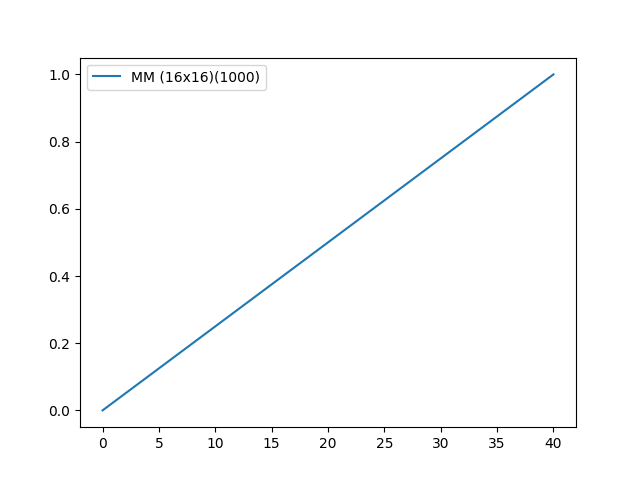
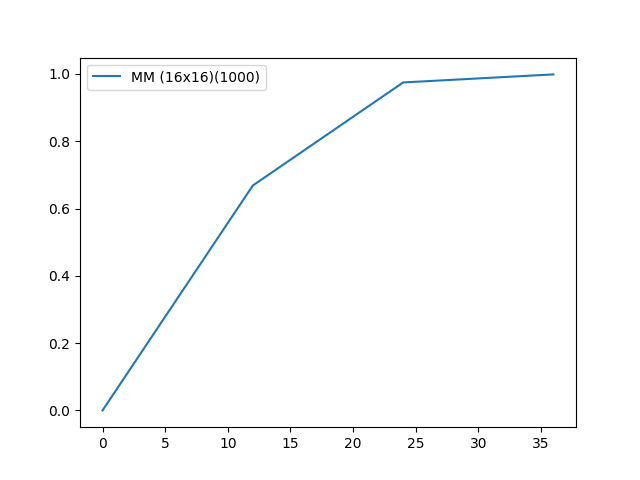
plot resource allocations

diff --git a/djmaps/maps/templates/static/index.js b/djmaps/maps/templates/static/index.js
@@ -144,7 +144,6 @@ function findDBScanCluster(DBSCANdistance, features) {
 	}
 	DBScanClusterTimeSeriesArray = [];
 	keys = Object.keys(DBScanClusterTimeSeries).sort();
-	console.log(keys);
 	last = keys.length - 1;
 	while (keys[last] == "NaN") {
 		last--;
@@ -223,7 +222,6 @@ function appendCrimeTypes(crimeType) {
 function mouseOnPointsEvent(map, popup) {
 	map.on('mouseenter', 'crimes', function (e) {
 		// Change the cursor style as a UI indicator.
-		console.log(e);
 		let description = `<b>Type: ${e.features[0].properties[0]} </b><br/>
 							Date: ${e.features[0].properties[3]} <br/> 
 							${e.features.length} incident(s) happened here.`
@@ -396,7 +394,6 @@ function changeFunctionsHookUp(map, dateCommitted, timeCommitted, crimeType) {
 
 					for (let i = 0; i < dateCommitted.length; i++) {
 						let curDate = new Date(dateCommitted[i]);
-						console.log(curDate);
 					}
 				}
 			}
@@ -482,7 +479,6 @@ function changeFunctionsHookUp(map, dateCommitted, timeCommitted, crimeType) {
 					$("#crimeType input[name='crimeType-NONE']:checkbox").prop('checked', false);
 				}
 				else if ($(this).prop("name").slice(10) == "NONE") {
-					//console.log(crimeType[crimeType.length - 1]);
 					crimeType = ["none"];
 					$('#crimeType input:checkbox').prop('checked', false);
 					$("#dates input[name='day-ALL']:checkbox").prop('checked', true);
@@ -491,21 +487,12 @@ function changeFunctionsHookUp(map, dateCommitted, timeCommitted, crimeType) {
 				}
 				else {
 					crimeType.push($(this).prop("name").slice(10));
-					//console.log(crimeType[crimeType.length - 1]);
 					$("#crimeType input[name='crimeType-NONE']:checkbox").prop('checked', false);
 				}
 			}
 			// if a day was checked add to dates array
 			// if a type was checked add to types array
 		} else {
-			/*if($(this).prop("name").slice(0,3) == "day") {
-				//console.log($(this).prop("name"));
-				for(let i = 0; i < dateCommitted.length; i++) {
-					if($(this).prop("name").slice(4) == dateCommitted[i]) dateCommitted.splice(i,1);
-				}
-				$("#dates input[name='day-ALL']:checkbox").prop('checked', false);
-			}*/
-
 			if ($(this).prop("name").slice(0, 9) == "crimeType") {
 				//console.log($(this).prop("name"));
 				for (let i = crimeType.length - 1; i >= 0; i--) {
@@ -689,15 +676,41 @@ function addClusterLayersFromBoundaries(data, map){
 }
 
 function clusterButtonHookUp(map, dateCommitted, timeCommitted, crimeType){
-	$(".cluster-button")[0].classList.remove('disabled');
-
+	$(".cluster-button")[0].classList.remove('disabled');	
 	$(".cluster-button").click(function () {
 		removeExistingClusterLayers(map);
+		const method = $('input[name=cluster-method]:checked')[0].value
+		if (method === 'DBSCAN'){
+			x = updateFilteredPoints(crimeType, dateCommitted, timeCommitted)
+			$.ajax({
+				type: "POST",
+				url: "http://localhost:8000/dbscan",
+				data: JSON.stringify({ 'features': x, 'dist': document.getElementById("DBScanInput").value }),
+				success: function (data) {
+					data = JSON.parse(data);
+					data2 = [];
+					for (let key = 0; key < x.length; key++) {
+						data2[key] = {};
+						data2[key]['geometry'] = data['geometry'][key];
+						data2[key]['type'] = data['type'][key];
+						data2[key]['properties'] = data['properties'][key];
+						//console.log(dataCrimes);
+					}
+					dataCrimes['features'] = data2;
+					map.getSource('dataCrimes').setData(dataCrimes);
+					timeseries = findDBScanCluster(DBSCANdistance, x);
+					timeseriesToPredict = timeseries;
+					console.log("DBSCANNED " + timeseries);
 
+					//console.log(data2);
+					//console.log(dataCrimes);
+				}
+			});
+			return
+		}
 		const grid_x = document.getElementById("grid-x").value;
 		const grid_y = document.getElementById("grid-y").value;
 		const threshold = document.getElementById("threshold").value;
-
 
 		$.ajax({
 			type: "POST",
@@ -715,7 +728,6 @@ function predictButtonHookUp(){
 	$(".predict-button")[0].classList.remove('disabled');
 
 	$('.predict-button').click(function () {
-		console.log('predict button clicked');
 		$.ajax({
 			type: "POST",
 			url: "http://localhost:8000/crimePred/cluster-predict",
@@ -725,7 +737,8 @@ function predictButtonHookUp(){
 				'method': $('input[name=prediction-method]:checked')[0].value,
 				'grid-x': $('#grid-x').val(),
 				'grid-y': $('#grid-y').val(),
-				'threshold': $('#threshold').val()
+				'threshold': $('#threshold').val(),
+				'metricPrecision': $('#metric-precision').val()
 			}),
 			success: function (imageData) {
 				$('.empty')[0].remove()

diff --git a/djmaps/maps/templates/index.html b/djmaps/maps/templates/index.html
@@ -73,19 +73,8 @@
 					<div class='columns'>
 						<div class="form-group cluster column col-6">
 							<span class="label label-rounded label-primary">Cluster with:</span>
-							<label class="form-switch">
-								<input type="checkbox">
-								<i class="form-icon"></i> DBSCAN
-							</label>
-							<div>
-								<label>Distance between points (miles)</label>
-								<br/>
-								<input class ='change' type='number' id='DBScanInput' name='DBScanInput' font='sans-serif' value='0.2' min='0.0' max='1' step='0.05'></input>
-								<br/>
-							</div>
-							<div class="divider text-center" data-content="OR"></div>
-							<label class="form-switch">
-								<input type="checkbox" checked='true'>
+							<label class="form-radio">
+								<input type="radio" name="cluster-method"  value='Naive' checked>
 								<i class="form-icon"></i> Naive Clustering
 							</label>
 							<div>
@@ -104,14 +93,36 @@
 									<br/>
 								</div>
 							</div>
+							<br/>
+							<div class="divider text-center" data-content="OR"></div>
+							<label class="form-radio">
+								<input type="radio" name="cluster-method"  value='DBSCAN'>
+								<i class="form-icon"></i> DBSCAN
+							</label>
+							<div>
+								<label>Distance between points (miles)</label>
+								<br/>
+								<input class ='change' type='number' id='DBScanInput' name='DBScanInput' font='sans-serif' value='0.2' min='0.0' max='1' step='0.05'></input>
+								<br/>
+							</div>
 						</div>
 						<div class="form-group predict column col-6">
-							<span class="label label-rounded label-primary">Predict with:</span>
+							<span class="label label-rounded label-primary">Predict with (Naive Clustering):</span>
 							<div class="form-group">
-								<label>Periods Ahead</label>
-								<br/>
-								<input class='change' type='number' id='periods-ahead' name='periods-ahead' font='sans-serif' value='1' min='1' max='8' step='1'></input>
-								<br/>
+								<div class="columns">
+									<div class="periodsAhead column col-6">
+										<label>Periods Ahead</label>
+										<br/>
+										<input class='change' type='number' id='periods-ahead' name='periods-ahead' font='sans-serif' value='1' min='1' max='8' step='1'></input>
+										<br/>
+									</div>
+									<div class="metricIndex column col-6">
+										<label>Metric Index Precision</label>
+										<br/>
+										<input class='change' type='number' id='metric-precision' name='metric-precision' font='sans-serif' value='12' min='4' max='40' step='4'></input>
+										<br/>
+									</div>
+								</div>
 								<label class="form-radio">
 									<input type="radio" name="prediction-method"  value='MM' checked>
 									<i class="form-icon"></i> Moving Mean (MM)

diff --git a/djmaps/src/crimePred/views.py b/djmaps/src/crimePred/views.py
@@ -235,6 +235,7 @@ def clusterAndPredict(request):
     print('gridshape {}'.format(gridshape))
     method = body['method']
     threshold = int(body['threshold'])
+    metricPrecision = int(body['metricPrecision'])
     maxDist = 1
     ignoreFirst = 225
     periodsAhead_list = [int(body['periodsAhead'])] 
@@ -261,7 +262,7 @@ def clusterAndPredict(request):
         forecast_MM(method=method, clusters=clusters, realCrimes=realCrimes,
                         periodsAhead_list=periodsAhead_list, gridshape=gridshape, ignoreFirst=ignoreFirst, threshold=threshold, maxDist=maxDist)
 
-    resource_indexes = [0, 40] #temprorary
+    resource_indexes = range(0, 40, metricPrecision)
     file_path = compute_resource_allocation(resource_indexes, 1, [gridshape], periodsAhead_list, ignoreFirst, [threshold], 1, [method], lon_min, lon_max, lat_min, lat_max)
 
     filename = "{}_{}_({}x{})({})_{}_ahead.png".format('LA' if ignoreFirst == 104 else 'USC', method, gridshape[0], gridshape[1], threshold, periodsAhead_list[0])
